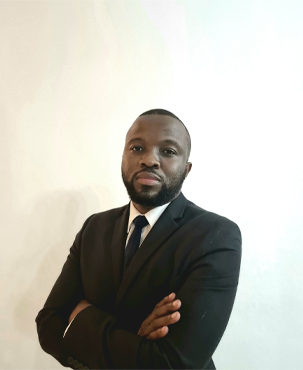
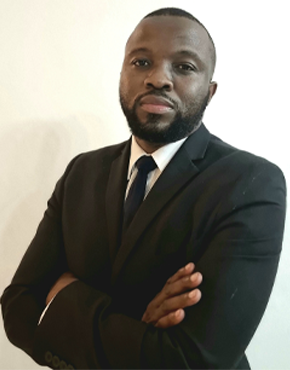
latest changes

diff --git a/components/team/index.js b/components/team/index.js
@@ -52,7 +52,7 @@ const TeamSection = (props) => {
                     <div className="col-lg-4 col-md-6 col-sm-12 col-12 custom-grid">
                         <div className="wpo-team-wrap">
                             <div className="wpo-team-img">
-                                <img src='images/team/team-3.png' alt="" />
+                                <img src='images/team/mala.png' alt="" />
                             </div>
                             <div className="wpo-team-content">
                                 <div className="wpo-team-text-sub">
